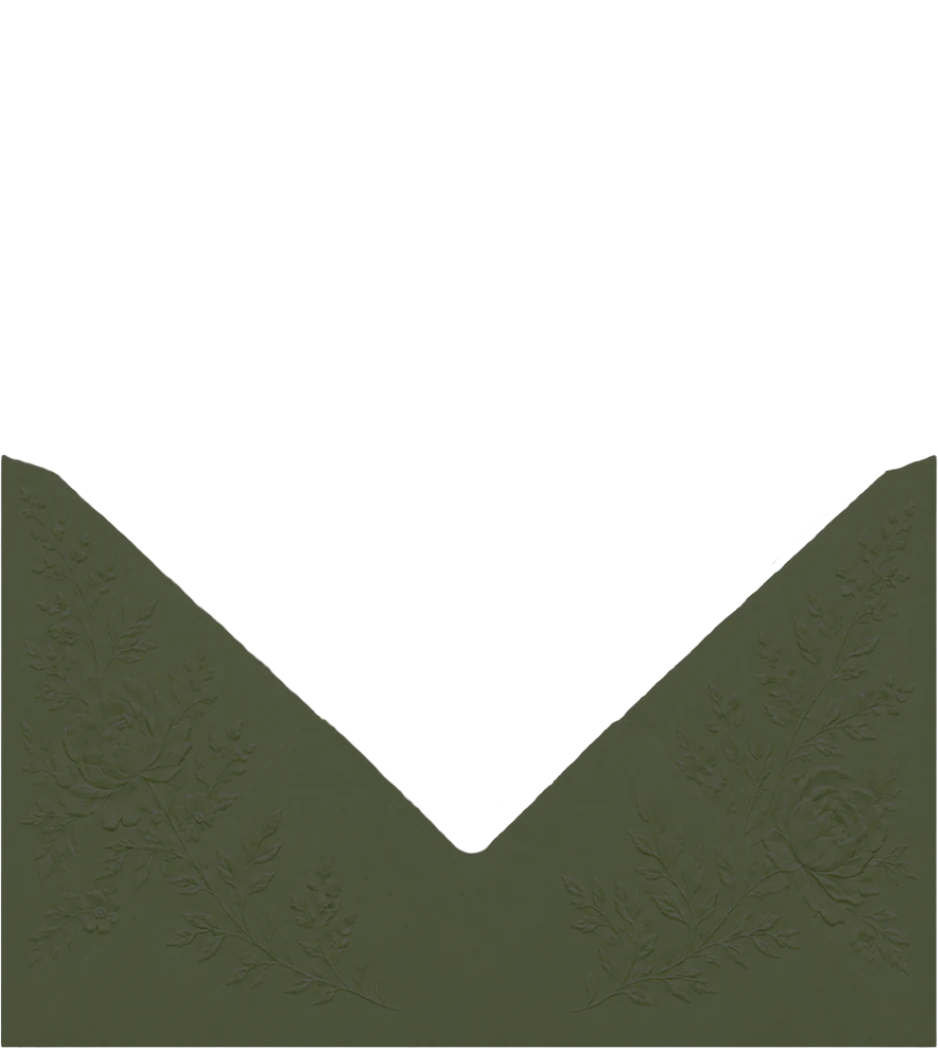
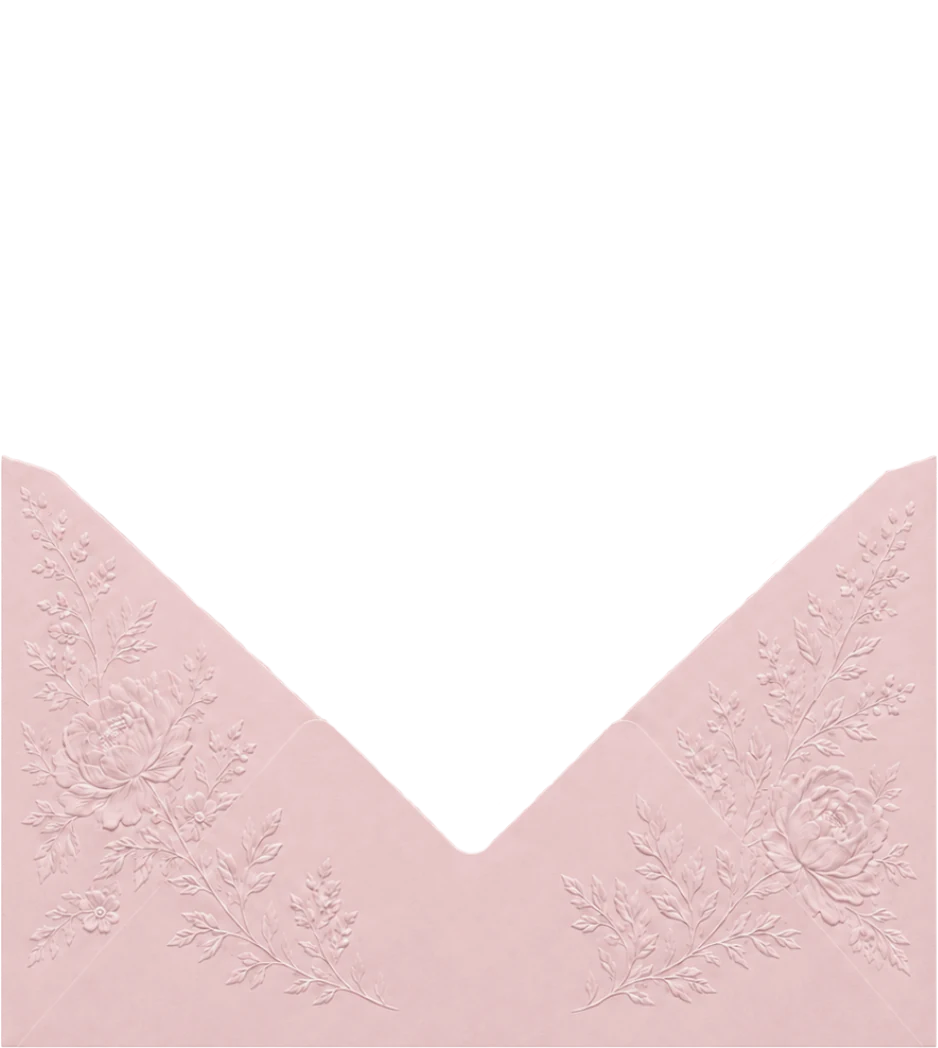
Set the envelope to #e8c7c8; record every shade tried
Hue 358deg, saturation x0.662, value x0.959 of the blush original —
lands on #e8c8c9. This one is close to the artwork's own colour: a blush,
slightly cooler and softer than the #f2c4be it started as. Bump to ?v=10.

Set --hint-on-env back to ink (7.2:1 here; white would be 1.6:1).

Record the shades in the README rather than leaving them scattered across
commit messages, with the hue/sat/val each needs from the blush source and
which hint colour it takes — #4e533b included, as asked. They're derived
from source and target, not guessed, so any of them can be re-applied
exactly. The recolour procedure is written down alongside them, including
the two things easy to forget: bumping ?v= and setting the hint knob.

diff --git a/css/save-the-date.css b/css/save-the-date.css
@@ -57,8 +57,8 @@
      and white is the reverse. It was tuned in place four times chasing that, so
      it now lives here — set the pair to suit the envelope's lightness, dark text
      with a pale halo for a light envelope, the reverse for a dark one. */
-  --hint-on-env:      #ffffff;                  /* current envelope is dark */
-  --hint-on-env-halo: rgba(18, 22, 12, 0.55);
+  --hint-on-env:      var(--ink);                     /* current envelope is light */
+  --hint-on-env-halo: rgba(255, 255, 255, 0.9);
 }
 
 * { box-sizing: border-box; }
@@ -214,16 +214,16 @@ body.is-ready .petals { opacity: 1; }
    move it up to .stage, which owns the perspective. */
 .env__back  {
   z-index: 1;
-  background-image: image-set(url(../assets/env-back.webp?v=9)  type("image/webp"), url(../assets/env-back.png?v=9)  type("image/png"));
+  background-image: image-set(url(../assets/env-back.webp?v=10)  type("image/webp"), url(../assets/env-back.png?v=10)  type("image/png"));
   filter: drop-shadow(0 7px 14px rgba(84, 64, 58, 0.26));
 }
-.env__front { z-index: 3; background-image: image-set(url(../assets/env-front.webp?v=9) type("image/webp"), url(../assets/env-front.png?v=9) type("image/png")); }
+.env__front { z-index: 3; background-image: image-set(url(../assets/env-front.webp?v=10) type("image/webp"), url(../assets/env-front.png?v=10) type("image/png")); }
 
 /* The flap is authored in the OPEN (up) position; flipped down about its hinge
    (y≈43.4% of the piece) it covers the pocket = closed. One image, both faces. */
 .env__flap {
   z-index: 4;
-  background-image: image-set(url(../assets/env-flap.webp?v=9) type("image/webp"), url(../assets/env-flap.png?v=9) type("image/png"));
+  background-image: image-set(url(../assets/env-flap.webp?v=10) type("image/webp"), url(../assets/env-flap.png?v=10) type("image/png"));
   transform-origin: 50% 43.4%;
   /* the translateY is identity here, but it keeps the function list the same in
      all three states (closed / open / sliding) so each transition interpolates

diff --git a/save-the-date.html b/save-the-date.html
@@ -41,7 +41,7 @@
   <!-- Bespoke save-the-date theme (mirrors the locked sage + blush palette).
        The ?v= query is a cache buster — bump it whenever the CSS or JS changes so
        browsers pick the new file up without a hard refresh. -->
-  <link rel="stylesheet" href="css/save-the-date.css?v=40" />
+  <link rel="stylesheet" href="css/save-the-date.css?v=41" />
 
   <!-- No-JS fallback: hide the envelope pieces so the sandwiched letter shows. -->
   <noscript>

diff --git a/README.md b/README.md
@@ -177,12 +177,33 @@ Until then, treat any "submitted" RSVP as **not recorded**.
   cropped to a shared coordinate space and compressed for the web. No third-party
   license applies.
 
-  They were supplied in **blush** and have been **recoloured to a deep olive** (`#4e533b`).
-  The embossing is carried entirely in luminance, so the recolour pins the hue and
+  They were supplied in **blush** (`#f2c4be`) and have been **recoloured**. The
+  embossing is carried entirely in luminance, so the recolour pins the hue and
   rescales saturation and value, leaving every petal and fern untouched. The blush
-  originals are in git history if they're ever wanted back. The envelope URLs carry
-  a `?v=` — **bump it if the pieces are re-exported**, or browsers keep painting
-  the old ones.
+  originals are in git history if they're ever wanted back.
+
+  **Recolouring the envelope** takes three steps:
+
+  1. Restore the blush originals (`git checkout <pre-recolour commit> -- assets/env-*`)
+     so the transform doesn't compound onto an already-recoloured file.
+  2. Convert each piece: split off alpha, take RGB to HSV, pin H, scale S and V,
+     merge back, reattach alpha. The numbers below are derived from the source and
+     the target — they aren't guesses.
+  3. **Bump the `?v=` on the envelope URLs** in `css/save-the-date.css`, or browsers
+     keep painting the old pieces, **and set `--hint-on-env`** in `:root` to suit the
+     new lightness (see the note there — it can't be a constant).
+
+  Shades tried so far, with the transform each needs from the blush source:
+
+  | Colour | Hue | Sat | Val | Reads as | Hint |
+  | --- | --- | --- | --- | --- | --- |
+  | `#dfe6da` | 95° | ×0.243 | ×0.950 | nearly white | ink |
+  | `#e8c7c8` | 358° | ×0.662 | ×0.959 | blush, close to the original | ink |
+  | `#9caf88` | 89° | ×1.037 | ×0.723 | the palette's `--sage-400` | ink |
+  | `#9c8f88` | 21° | ×0.597 | ×0.645 | warm taupe | ink |
+  | `#819171` | 90° | ×1.027 | ×0.599 | muted olive-sage | either |
+  | `#7a895b` | 79° | ×1.600 | ×0.570 | olive | white |
+  | `#4e533b` | 72° | ×1.346 | ×0.343 | deep military olive | white |
 - **Kraft paper** — `assets/paper-kraft.png` (*"Kraft tileable 1024×1024"* from
   [Wikimedia Commons](https://commons.wikimedia.org/wiki/File:Kraft_tileable_1024x1024.png),
   released into the **public domain**) is retained from the earlier design but is no
